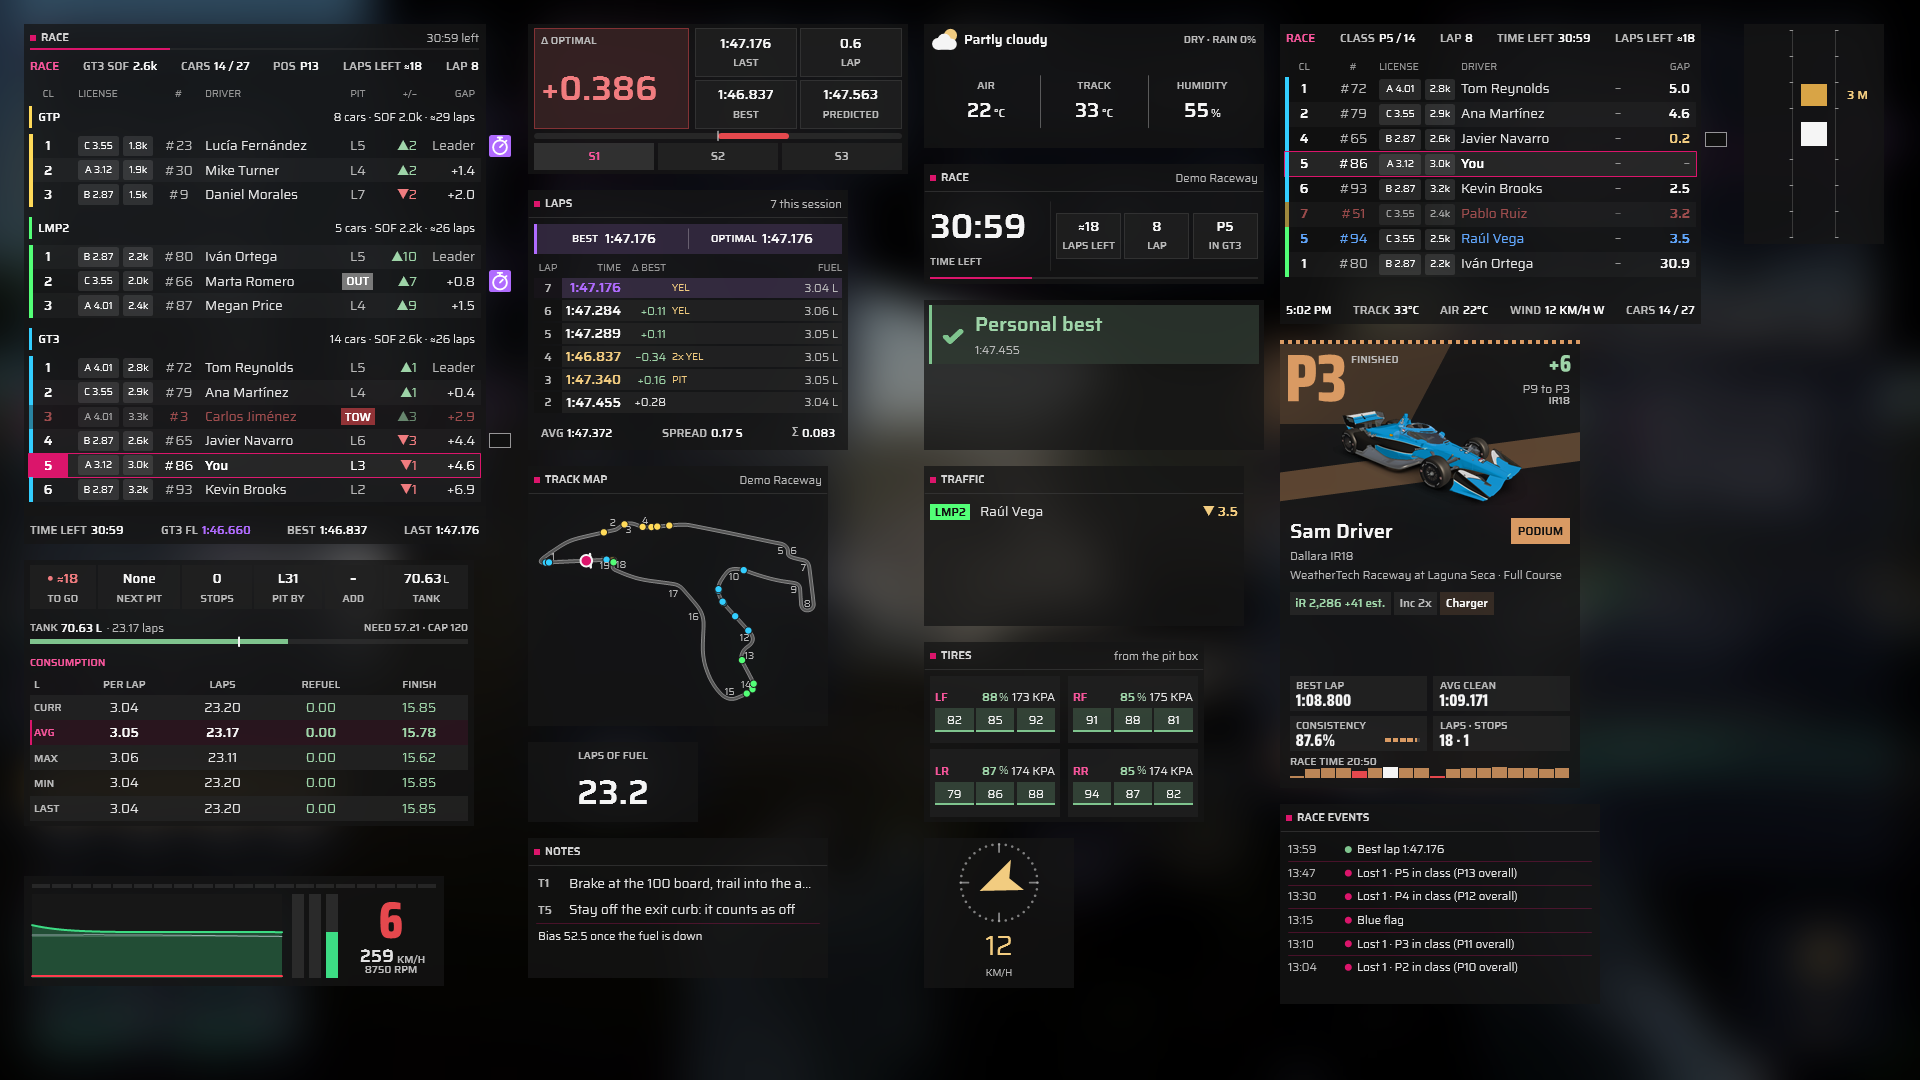
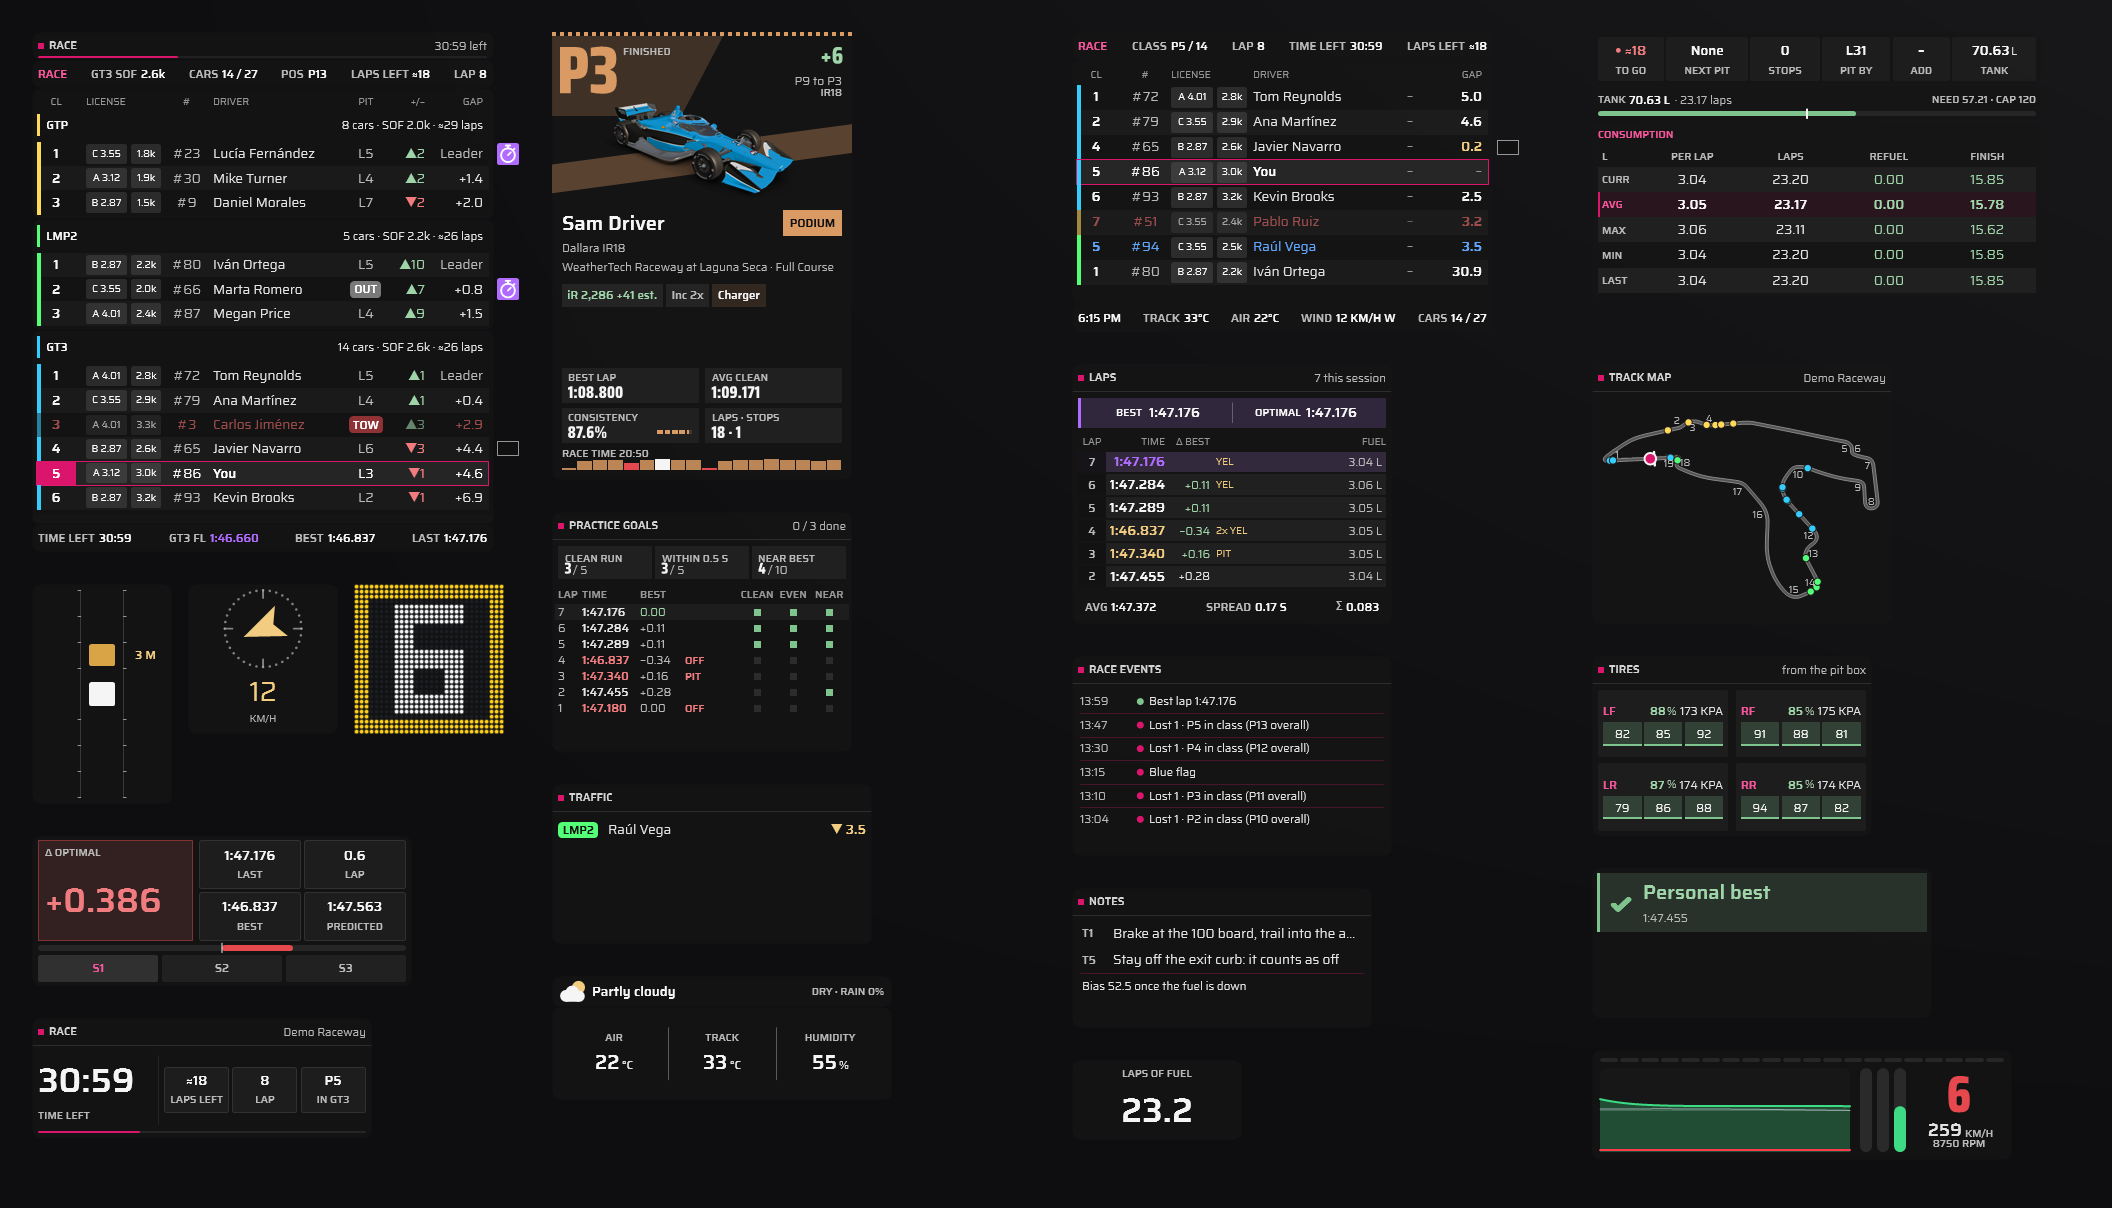
Update

diff --git a/README.md b/README.md
@@ -49,7 +49,7 @@ Two separate apps: take one or both. Neither needs the other.
 
 ### iRacing Overlay
 
-19 widgets: relative, standings, fuel and strategy, delta, radar, track map, inputs, tires, weather and more. Drag them around in the car with `Ctrl+Alt+E`, save layouts per car or track, add any widget to OBS as a browser source, or show them in your VR headset.
+20 widgets: relative, standings, fuel and strategy, delta, radar, track map, inputs, tires, weather and more. Drag them around in the car with `Ctrl+Alt+E`, save layouts per car or track, add any widget to OBS as a browser source, or show them in your VR headset.
 
 <details>
 <summary><b>See every widget</b></summary>
@@ -97,36 +97,12 @@ Your iRacing history, kept on your PC: result cards, goals, ratings, personal be
 
 ### iRacing tools
 
-Setup Manager, FOV calculator, iRacing's settings and keybinds in plain language, bass shakers, and Trading Paints / Garage 61 start and stop.
-
-<details>
-<summary><b>See the tools</b></summary>
-<br>
-
-**Setup Manager:** every setup sorted by car and class, with new downloads picked up.
-
-<img src="screenshots/velocita-setups.jpg" alt="Setup Manager">
-
-**FOV calculator:** single or triple screens, compared side by side and written straight into iRacing.
-
-<img src="screenshots/velocita-fov.jpg" alt="FOV calculator">
-
-**iRacing settings:** every iRacing setting in plain language, searchable, with what you changed from the defaults and one-click undo.
-
-<img src="screenshots/velocita-iracing-settings.jpg" alt="iRacing settings">
-
-**iRacing keybinds:** every in-sim keybind per profile, with what's set, missing or changed.
-
-<img src="screenshots/velocita-keybinds.jpg" alt="iRacing keybinds">
-
-**Bass shakers:** engine, shifts, ABS, curbs and the rev limiter through any sound output.
-
-<img src="screenshots/velocita-shakers.jpg" alt="Bass shakers">
-
-**Trading Paints and Garage 61:** start them with Velocita or when iRacing starts, and see your own paint on car pictures across the app.
-
-<img src="screenshots/velocita-companions.jpg" alt="Trading Paints and Garage 61">
-</details>
+- **Setup Manager:** every setup sorted by car and class, with new downloads picked up.
+- **FOV calculator:** single or triple screens, compared side by side and written straight into iRacing.
+- **iRacing settings:** every iRacing setting in plain language, searchable, with what you changed from the defaults and one-click undo.
+- **iRacing keybinds:** every in-sim keybind per profile, with what's set, missing or changed.
+- **Bass shakers:** engine, shifts, ABS, curbs and the rev limiter through any sound output.
+- **Trading Paints and Garage 61:** start them with Velocita or when iRacing starts, and see your own paint on car pictures across the app.
 
 ### GRR League
 
